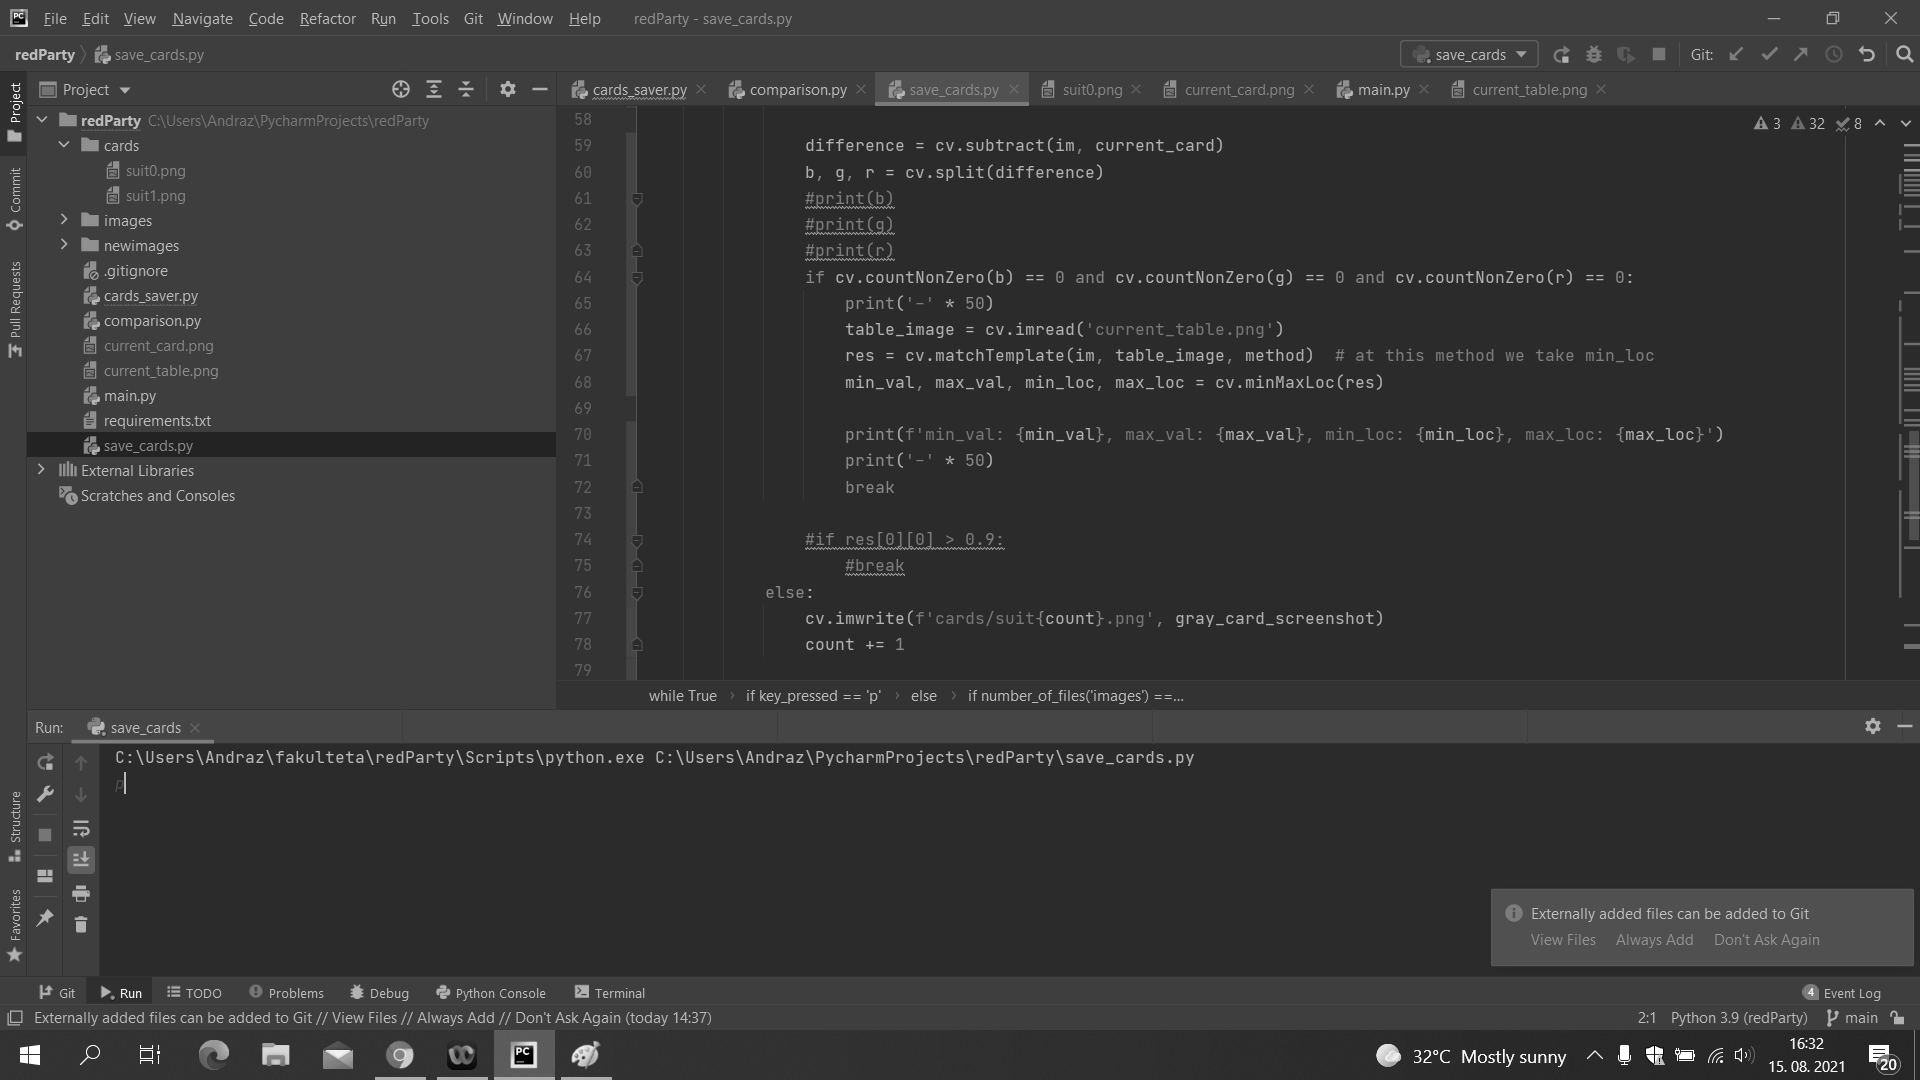
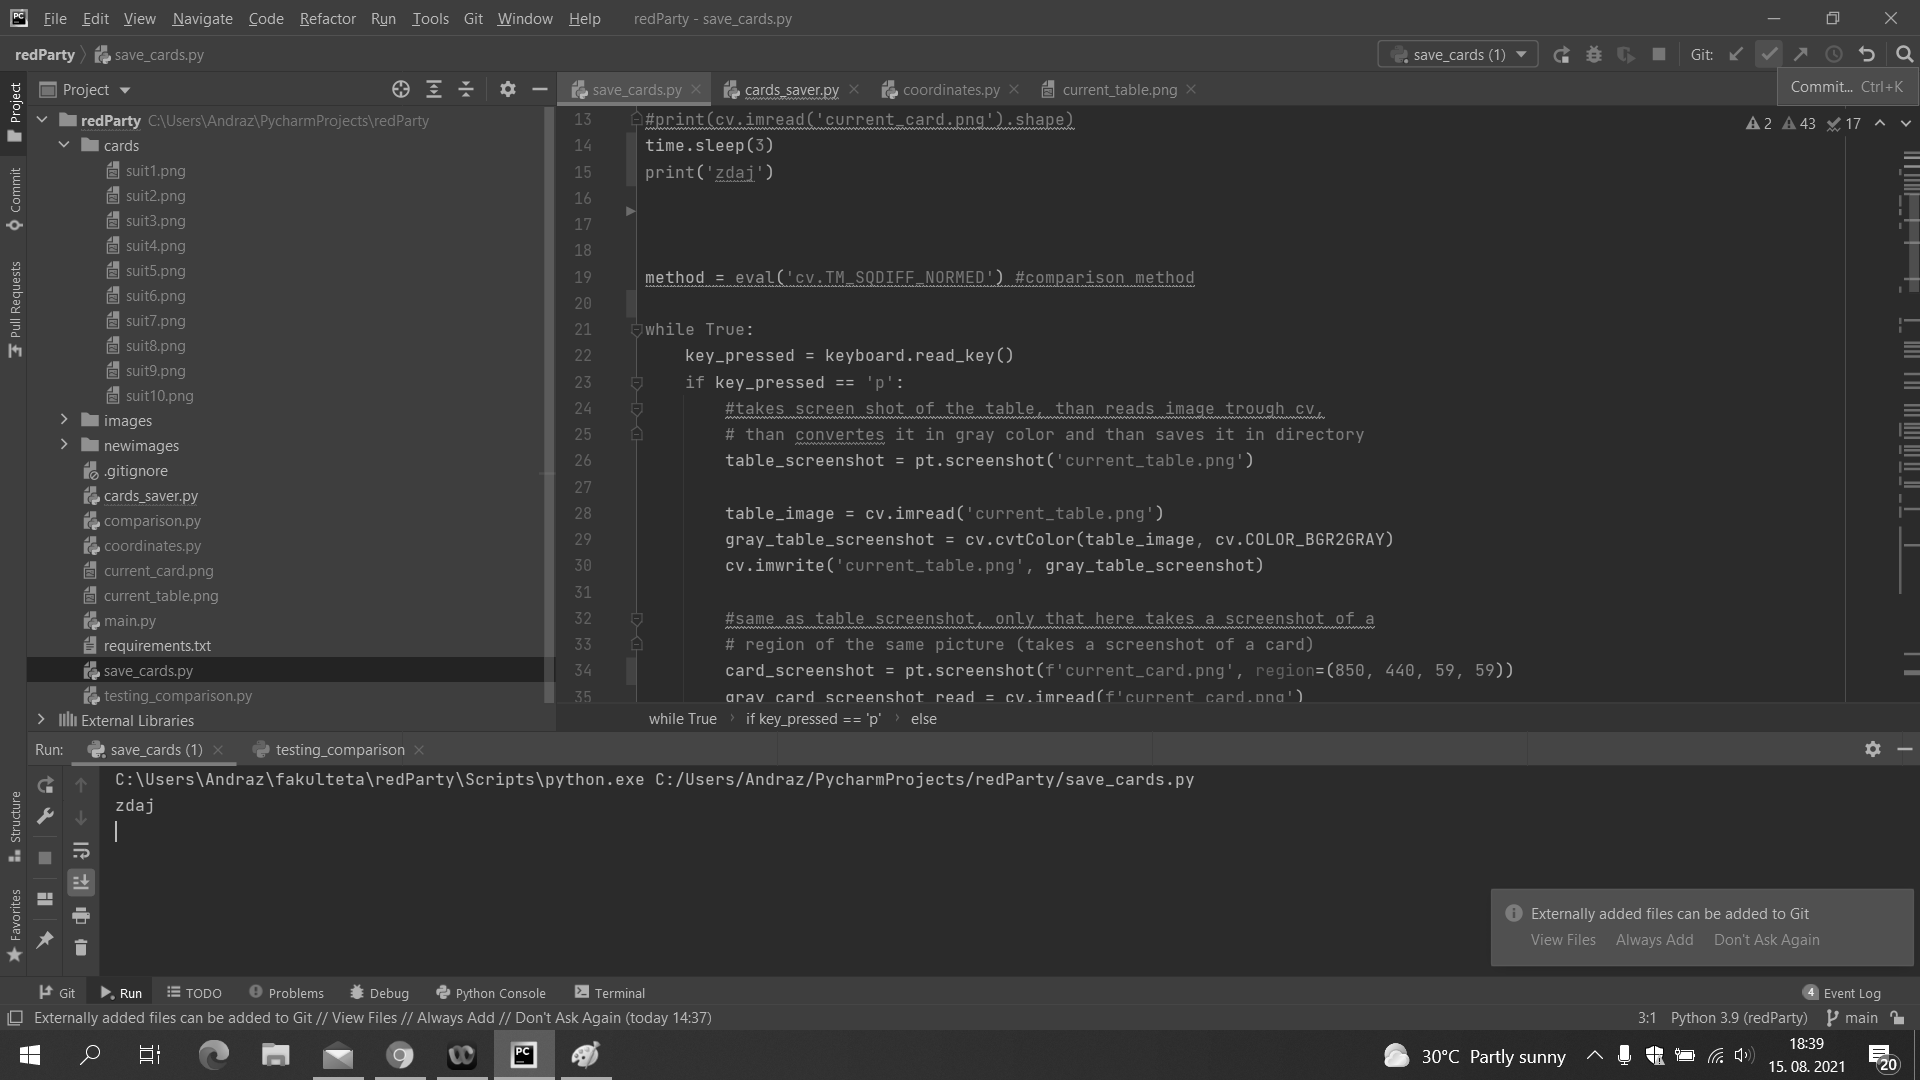
adding images works now?

diff --git a/save_cards.py b/save_cards.py
@@ -5,18 +5,19 @@ import keyboard
 import sys
 import os
 import numpy as np
+from coordinates import naked_suit, number_of_files, images_the_same
 #print((3,3,3) == (2,2,2))
 #print(cv.imread('cards/suit0.png'))
 #print(cv.imread('cards/suit0.png').shape == cv.imread('current_card.png').shape)
 #print('-' * 50)
 #print(cv.imread('current_card.png').shape)
+time.sleep(3)
+print('zdaj')
 
-def number_of_files(directory):
-    return len(os.listdir(f'{directory}'))
 
 
 method = eval('cv.TM_SQDIFF_NORMED') #comparison method
-count = 0
+
 while True:
     key_pressed = keyboard.read_key()
     if key_pressed == 'p':
@@ -30,18 +31,16 @@ while True:
 
         #same as table screenshot, only that here takes a screenshot of a
         # region of the same picture (takes a screenshot of a card)
-        card_screenshot = pt.screenshot(f'current_card.png', region=(16, 501, 59, 59))
+        card_screenshot = pt.screenshot(f'current_card.png', region=(850, 440, 59, 59))
         gray_card_screenshot_read = cv.imread(f'current_card.png')
         gray_card_screenshot = cv.cvtColor(gray_card_screenshot_read, cv.COLOR_BGR2GRAY)
         cv.imwrite('current_card.png', gray_card_screenshot)
 
         current_card = cv.imread('current_card.png')
 
-
+        #if directory has no image files, then program automatically adds current template (current_card)
         if number_of_files('cards') == 0:
-            cv.imwrite(f'cards/suit{count}.png', current_card)
-            count += 1
-
+            cv.imwrite(f'cards/suit1.png', current_card)
 
         else:
             #loops trough directory and compares images from directory to template,
@@ -62,24 +61,46 @@ while True:
                 #print(g)
                 #print(r)
                 if cv.countNonZero(b) == 0 and cv.countNonZero(g) == 0 and cv.countNonZero(r) == 0:
-                    print('-' * 50)
-                    table_image = cv.imread('current_table.png')
-                    res = cv.matchTemplate(im, table_image, method)  # at this method we take min_loc
-                    min_val, max_val, min_loc, max_loc = cv.minMaxLoc(res)
+                    #print('-' * 50)
+                    #table_image = cv.imread('current_table.png')
+                    #res = cv.matchTemplate(im, table_image, method)  # at this method we take min_loc
+                    #min_val, max_val, min_loc, max_loc = cv.minMaxLoc(res)
 
-                    print(f'min_val: {min_val}, max_val: {max_val}, min_loc: {min_loc}, max_loc: {max_loc}')
-                    print('-' * 50)
-                    break
+                    #print(f'min_val: {min_val}, max_val: {max_val}, min_loc: {min_loc}, max_loc: {max_loc}')
+                    #print('-' * 50)
+                    #print('Images are the same')
+
+                    break #if two photos are identical the for loop is broken becouse we know that there is already the
+                    #picture of that card in cards directory
 
 
+            #if there was no match while looping and comparing template image to images in directory, that means, there
+            #is not a picture that is the same to template photo, so, we add image to cards directory
             else:
-                cv.imwrite(f'cards/suit{count}.png', gray_card_screenshot)
-                count += 1
+                num = naked_suit() + 1
+                cv.imwrite(f'cards/suit{num}.png', gray_card_screenshot)
 
-
-            if number_of_files('images') == 52:
+            #when cards directory reaches lenght of 52, while loop breaks
+            if number_of_files('cards') == 52:
                 print('There are 52 cards in directory already...')
                 break
+
+
+
+
+            for im in os.listdir('cards'):
+                if images_the_same(f'cards/{im}', 'current_card.png'):
+
+                    print('sliki sta enaki')
+                else:
+                    print('sliki sta razlicni')
+            print(time.process_time())
+
+
+
+
+
+
 
 
 

diff --git a/coordinates.py b/coordinates.py
@@ -1,0 +1,80 @@
+import cv2 as cv
+import time
+import pyautogui as pt
+import keyboard
+import sys
+import os
+import numpy as np
+
+method = eval('cv.TM_SQDIFF_NORMED')
+
+
+def coordinates_of_image(template, image): #cv
+    """
+    Func returns left top coordinates where image matched with template image
+    :param template: path of template image
+    :param image: path of image
+    :return: tuple of coordinates where picture is located (left top corner?)
+    """
+    image = cv.imread(image)
+    temp = cv.imread(template)
+    res = cv.matchTemplate(image, temp, method)  # at this method we take min_loc
+    min_val, max_val, min_loc, max_loc = cv.minMaxLoc(res)
+    return min_loc, max_loc
+
+
+def get_coor(image): #pyautogui
+    """
+
+    :param image: path of template image
+    :return: coordinates
+    """
+    image = pt.locateOnScreen('cards/suit1.png')
+    return
+
+#print(coordinates_of_image('cards/suit0.png', 'current_table.png'))
+
+
+def naked_suit():  #returns number of the title image
+    if len(os.listdir('cards')) == 0:
+        return 0
+    last_one = os.listdir('cards')[-1]
+    #print(last_one)
+    first_part = last_one.split('.')[0]
+    #print(first_part)
+    number = ''
+    #print(number)
+    for i in last_one:
+        if i.isnumeric():
+            number += i
+    return int(number)
+
+
+
+
+def number_of_files(directory):
+    return len(os.listdir(f'{directory}'))
+
+
+#time.sleep(3)
+#print(get_coor('cards/suit1.png'))
+#print(pt.locateOnScreen('cards/suit1.png'))
+
+def images_the_same(image1, image2):
+    im1 = cv.imread(f'{image1}')
+    im2 = cv.imread(f'{image2}')
+
+    difference = cv.subtract(im1, im2)
+    b, g, r = cv.split(difference)
+
+    if cv.countNonZero(b) == 0 and cv.countNonZero(g) == 0 and cv.countNonZero(r) == 0:
+        return True
+    return False
+
+#print(images_the_same('cards/suit1.png', 'cards/suit1.png'))
+#print(time.process_time())
+
+
+#print(coordinates_of_image('cards/suit2.png', 'current_table.png'))
+#print(time.process_time())
+

diff --git a/testing_comparison.py b/testing_comparison.py
@@ -1,0 +1,29 @@
+import cv2 as cv
+import numpy as np
+from matplotlib import pyplot as plt
+img = cv.imread('current_table.png',0)
+img2 = img.copy()
+template = cv.imread('current_card.png',0)
+w, h = template.shape[::-1]
+# All the 6 methods for comparison in a list
+methods = ['cv.TM_CCOEFF', 'cv.TM_CCOEFF_NORMED', 'cv.TM_CCORR',
+            'cv.TM_CCORR_NORMED', 'cv.TM_SQDIFF', 'cv.TM_SQDIFF_NORMED']
+for meth in methods:
+    img = img2.copy()
+    method = eval(meth)
+    # Apply template Matching
+    res = cv.matchTemplate(img,template,method)
+    min_val, max_val, min_loc, max_loc = cv.minMaxLoc(res)
+    # If the method is TM_SQDIFF or TM_SQDIFF_NORMED, take minimum
+    if method in [cv.TM_SQDIFF, cv.TM_SQDIFF_NORMED]:
+        top_left = min_loc
+    else:
+        top_left = max_loc
+    bottom_right = (top_left[0] + w, top_left[1] + h)
+    cv.rectangle(img,top_left, bottom_right, 255, 2)
+    plt.subplot(121),plt.imshow(res,cmap = 'gray')
+    plt.title('Matching Result'), plt.xticks([]), plt.yticks([])
+    plt.subplot(122),plt.imshow(img,cmap = 'gray')
+    plt.title('Detected Point'), plt.xticks([]), plt.yticks([])
+    plt.suptitle(meth)
+    plt.show()

diff --git a/comparison.py b/comparison.py
@@ -3,9 +3,9 @@ import numpy as np
 from matplotlib import pyplot as plt
 
 
-img = cv.imread('newimages/table_screenShot5.png',0)
+img = cv.imread('current_table.png',0)
 img2 = img.copy()
-template = cv.imread('chrome.png',0)
+template = cv.imread('current_card.png',0)
 w, h = template.shape[::-1]
 print('začetek')
 

diff --git a/main.py b/main.py
@@ -49,6 +49,9 @@ for image in os.listdir('images'):
 
 
 
+
+
+
 cas = time.process_time()
 print(cas)
 
